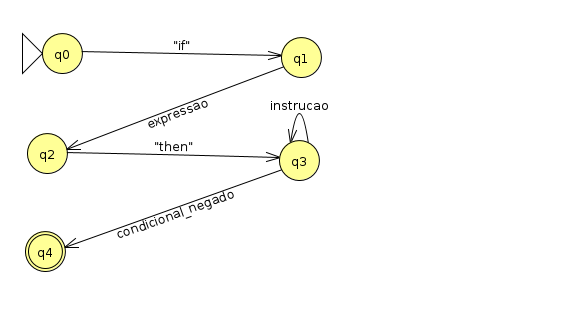
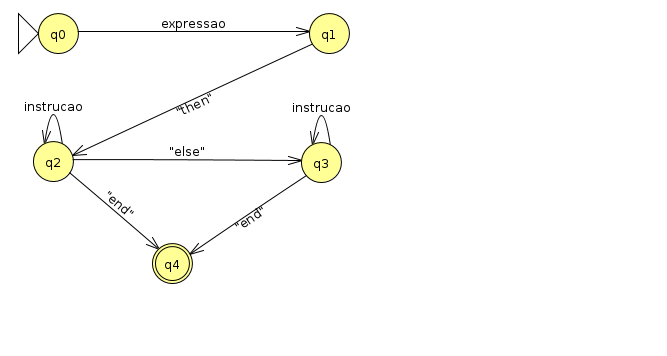
sm condicional, close #19 - sm laco, close #20

diff --git a/src/syntatic.c b/src/syntatic.c
@@ -14,7 +14,6 @@ typedef enum{FSM_DECLARACAO_VARIAVEL,
 	     FSM_INSTRUCAO,
 	     FSM_LACO,
 	     FSM_CONDICIONAL,
-	     FSM_CONDICIONAL_NEGADO,
 	     FSM_EXPRESSAO,
 	     FSM_TERMO_E,
 	     FSM_TERMO_IGUALDADE,
@@ -32,7 +31,6 @@ int fsm_declaracao_var_com_atrib(token_t * t);
 int fsm_instrucao(token_t * t);
 int fsm_laco(token_t * t);
 int fsm_condicional(token_t * t);
-int fsm_condicional_negado(token_t * t);
 int fsm_expressao(token_t * t);
 int fsm_termo_e(token_t * t);
 int fsm_termo_igualdade(token_t * t);
@@ -49,7 +47,6 @@ int (*const sub_machines[NUM_FSM]) (token_t * ) = {
     fsm_instrucao,
     fsm_laco,
     fsm_condicional,
-    fsm_condicional_negado,
     fsm_expressao,
     fsm_termo_e,
     fsm_termo_igualdade,
@@ -303,18 +300,70 @@ int fsm_instrucao(token_t * t) {
 
 int fsm_laco(token_t * t) {
     switch (state) {
+    case 0:
+	semantico_tbd();
+	return call_sm(FSM_EXPRESSAO, 1);
+
+    case 1:
+	if (t->type == TYPE_KEYWORD && t->value == keyword_pos("do")) {
+	    semantico_tbd();
+	    return 2;
+	}
+	break;
+
+    case 2:
+	if (t->type == TYPE_KEYWORD && t->value == keyword_pos("end")) {
+	    semantico_tbd();
+	    return 3;
+	}
+	semantico_tbd();
+	return call_sm(FSM_INSTRUCAO, 2);
+
+    case 3:
+	semantico_tbd();
+	return pop();
+
     }
     return -1;
 }
 
 int fsm_condicional(token_t * t) {
     switch (state) {
-    }
-    return -1;
-}
+    case 0:
+	semantico_tbd();
+	return call_sm(FSM_EXPRESSAO, 1);
 
-int fsm_condicional_negado(token_t * t) {
-    switch (state) {
+    case 1:
+	if (t->type == TYPE_KEYWORD && t->value == keyword_pos("then")) {
+	    semantico_tbd();
+	    return 2;
+	}
+	break;
+
+    case 2:
+	if (t->type == TYPE_KEYWORD && t->value == keyword_pos("end")) {
+	    semantico_tbd();
+	    return 4;
+	}
+	else if (t->type == TYPE_KEYWORD && t->value == keyword_pos("else")) {
+	    semantico_tbd();
+	    return 3;
+	}
+	semantico_tbd();
+	return call_sm(FSM_INSTRUCAO, 2);
+
+    case 3:
+	if (t->type == TYPE_KEYWORD && t->value == keyword_pos("end")) {
+	    semantico_tbd();
+	    return 4;
+	}
+	semantico_tbd();
+	return call_sm(FSM_INSTRUCAO, 2);
+
+    case 4:
+	semantico_tbd();
+	return pop();
+
     }
     return -1;
 }
